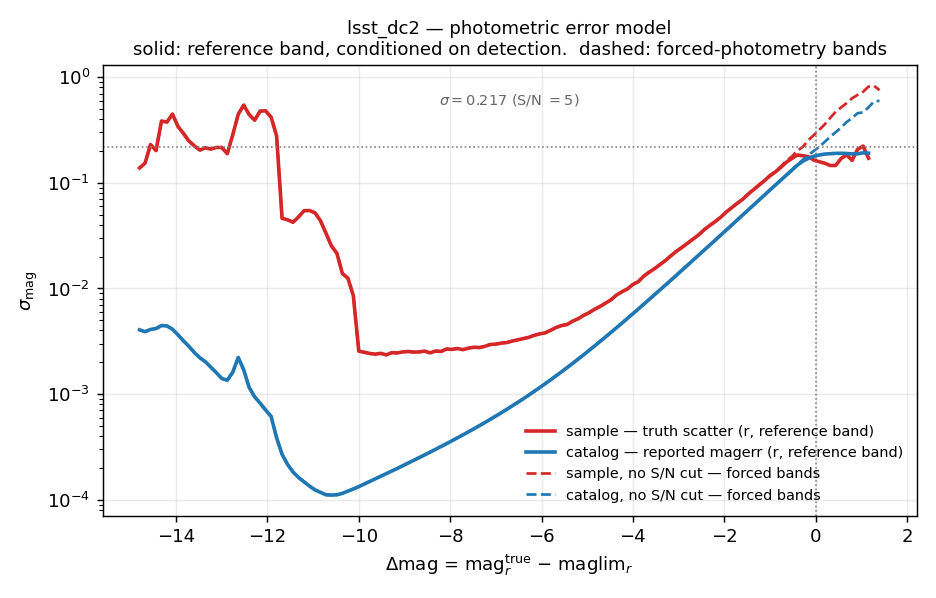
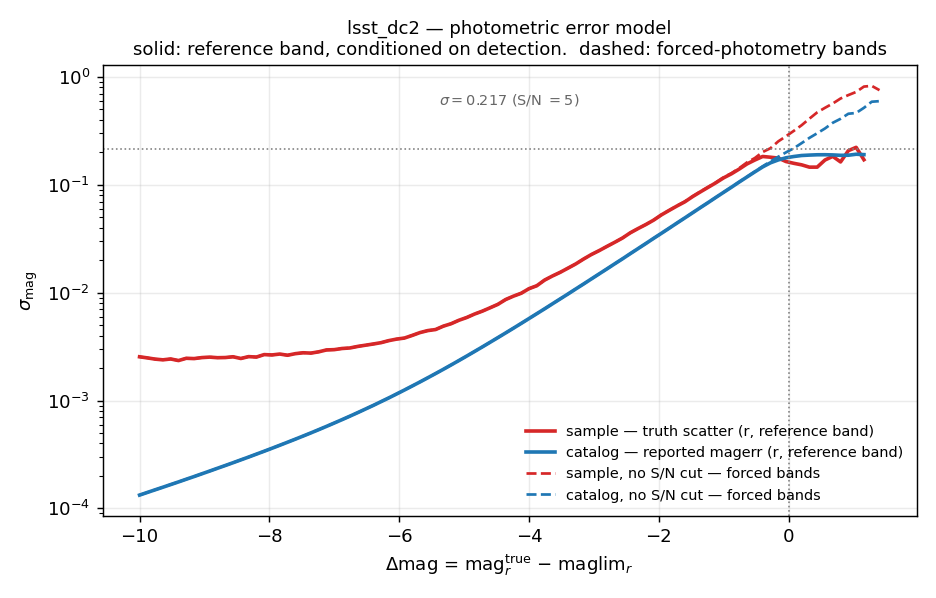
Cut the LSST DC2 photo-error curves brightward of delta_mag -10
The raw curves ran to delta_mag = -14.8, about 15 mag brighter than the depth,
and brightward of roughly -10 the measurement was erratic rather than
informative: the truth scatter jumped by more than a decade between neighbouring
bins because at r < 17 the DC2 matched-star sample thins out and a handful of
objects sets each bin. streamobs extrapolates flat below the first point, so
dropping those bins substitutes the brightest well-sampled value for noise
rather than losing coverage.

Expressed as a cut_bright rule in the tracked afterburner YAML, which the LSST
generator already supported but had no rules in. 40 bins drop from each curve:
134 -> 94 rows for the reference-band pair, 136 -> 96 for the _nocut pair. The
_nocut curves reuse the r_sample / r_catalog rule ids, so all four are cut
together and stay on a common delta_mag grid. lsst_yr1-5 and lsst_dp2 symlink
these files and inherit the change.

Re-deriving the curves needs the DC2 object and truth skims (~120 GB), which is
disproportionate for a YAML change, so the generator gains
--reapply-corrections: it re-cleans the curves from their untouched *_raw.csv
provenance, which reproduces exactly what a full run would write. Mirrors the
same flag on the DES reducer.

Archive rebuilt: 23,724,638 bytes.

Not fixed by this, and still open: the sample curve dips below the catalog curve
at a single bin, delta_mag = -0.04, by 0.035 dex. That sits at the depth
[…]

diff --git a/scripts/lsst/create_streamobs_files_lsst_dc2.py b/scripts/lsst/create_streamobs_files_lsst_dc2.py
@@ -482,6 +482,44 @@ def _apply_photoerr_corrections(tab, curve_id, corrections_path):
     return out
 
 
+def reapply_corrections():
+    """Rewrite the cleaned photo-error CSVs from their *_raw.csv provenance.
+
+    Re-deriving the curves needs the DC2 object and truth skims (~120 GB), which
+    is disproportionate when only the afterburner YAML has changed. The raw
+    files are the untouched measurement, so re-cleaning them reproduces exactly
+    what a full run would write. Mirrors --reapply-corrections in
+    scripts/des/balrog_selection_function.py.
+
+    Note the _nocut curves share the `r_sample` / `r_catalog` rule ids with the
+    reference-band pair, so a rule change applies to all four and they stay on a
+    common delta_mag grid.
+    """
+    n = 0
+    for stem, rule in [
+        ("lsst_dc2_photoerror_r", "r_sample"),
+        ("lsst_dc2_photoerror_r_catalog", "r_catalog"),
+        ("lsst_dc2_photoerror_r_nocut", "r_sample"),
+        ("lsst_dc2_photoerror_r_catalog_nocut", "r_catalog"),
+    ]:
+        raw = OUT_DIR / f"{stem}_raw.csv"
+        if not raw.exists():
+            print(f"  [afterburner] missing {raw.name} — skipped")
+            continue
+        tab = pd.DataFrame(
+            np.genfromtxt(raw, delimiter=",", comments="#"),
+            columns=["delta_mag", "log_mag_err"],
+        )
+        clean = _apply_photoerr_corrections(tab, rule, CORRECTIONS_FILE)
+        np.savetxt(
+            OUT_DIR / f"{stem}.csv", clean.values, delimiter=",",
+            header="delta_mag,log_mag_err", fmt="%.6f",
+        )
+        print(f"  wrote {stem}.csv  ({len(tab)} raw -> {len(clean)} rows)")
+        n += 1
+    print(f"re-applied {CORRECTIONS_FILE.name} to {n} curves in {OUT_DIR}")
+
+
 if __name__ == "__main__":
     ap = argparse.ArgumentParser(description=__doc__)
     ap.add_argument(
@@ -491,5 +529,14 @@ if __name__ == "__main__":
         help="limit to the first N tracts (0 = all 79; also bypasses the cache)",
     )
     ap.add_argument("--refresh", action="store_true", help="rebuild the match cache")
+    ap.add_argument(
+        "--reapply-corrections",
+        action="store_true",
+        help="only re-clean the photo-error curves from their *_raw.csv files, "
+        "without re-deriving anything (no DC2 skims needed)",
+    )
     args = ap.parse_args()
-    main(n_tracts=args.tracts, refresh=args.refresh)
+    if args.reapply_corrections:
+        reapply_corrections()
+    else:
+        main(n_tracts=args.tracts, refresh=args.refresh)

diff --git a/docs/source/product_verification.md b/docs/source/product_verification.md
@@ -184,8 +184,8 @@ Carried forward into the release, not fixed here.
 
 ## Manifest
 
-`data.zip` — 23,732,450 bytes, 124 files
[1 lines of base64/hex data omitted]
+`data.zip` — 23,724,638 bytes, 124 files
[1 lines of base64/hex data omitted]
 
 Per-file sizes and sha256 for both releases are in
 `artifacts/product_manifest.json`. The shipped products are:
